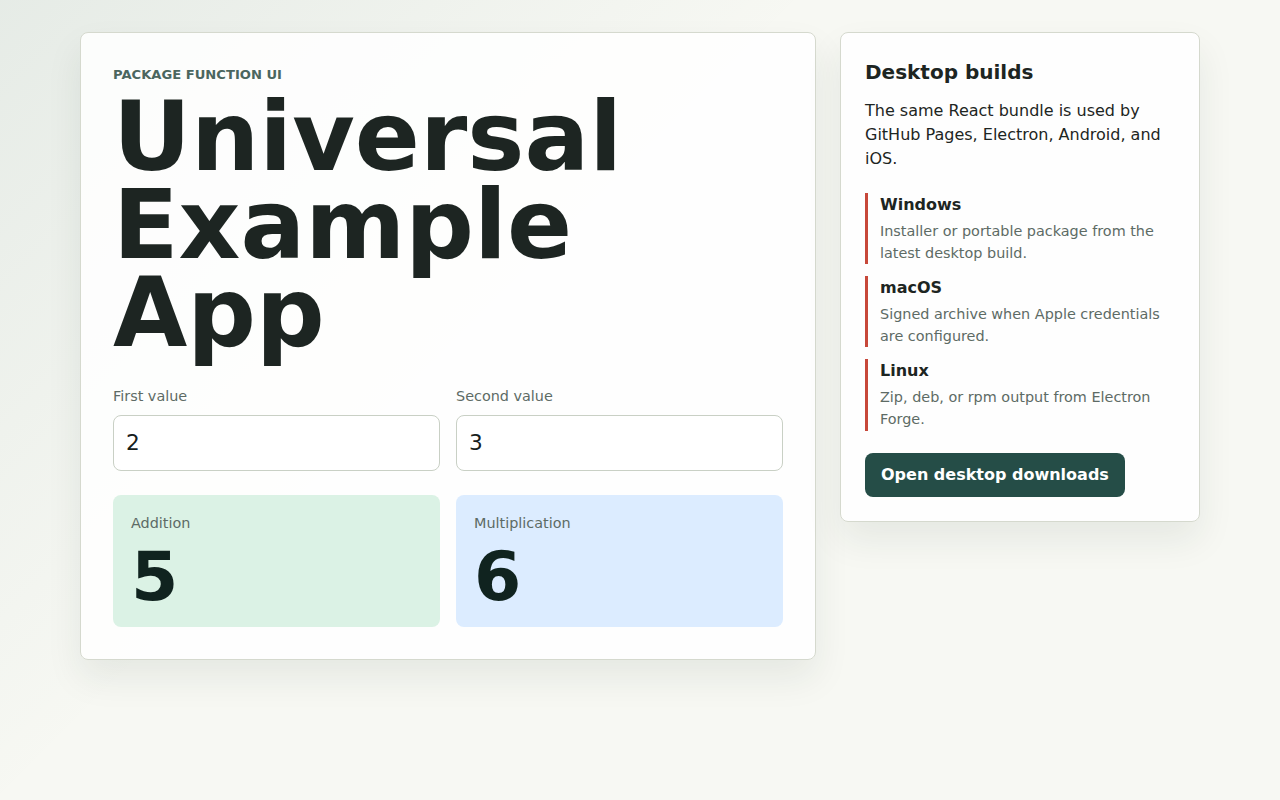
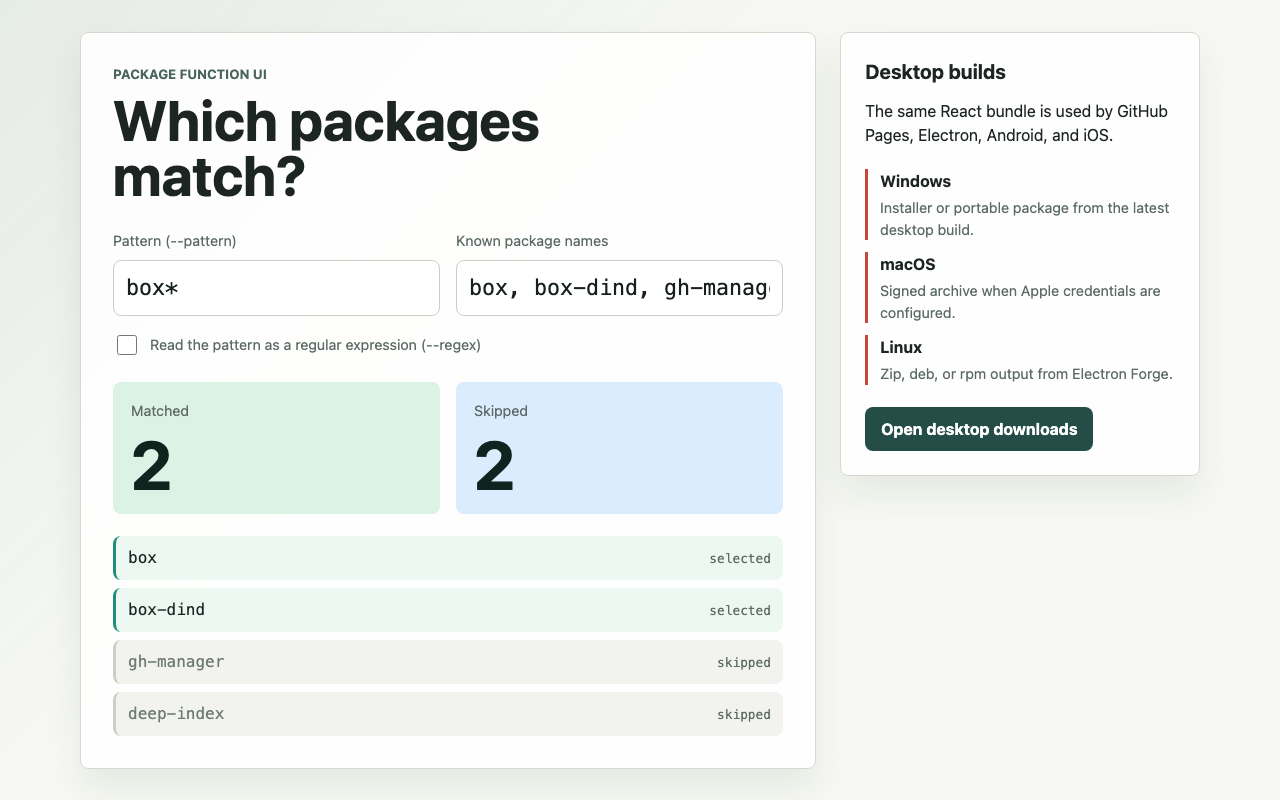
Wait for the example app's heading when regenerating previews
update-preview-images.mjs waited for #calculator-title, a template
leftover the example app does not render, so Regenerate Preview Images
timed out on every main push. It now waits for #matcher-title; the
regenerated images show the current app. The script's header no longer
carries issue history, which the comment lint rule rejects.

diff --git a/.changeset/preview-wait-for-app-heading.md b/.changeset/preview-wait-for-app-heading.md
@@ -1,0 +1,5 @@
+---
+'@link-foundation/gh-manager': patch
+---
+
+CI: preview image regeneration waits for the example app's `#matcher-title` heading instead of the template's `#calculator-title`, and the preview images show the current app.
